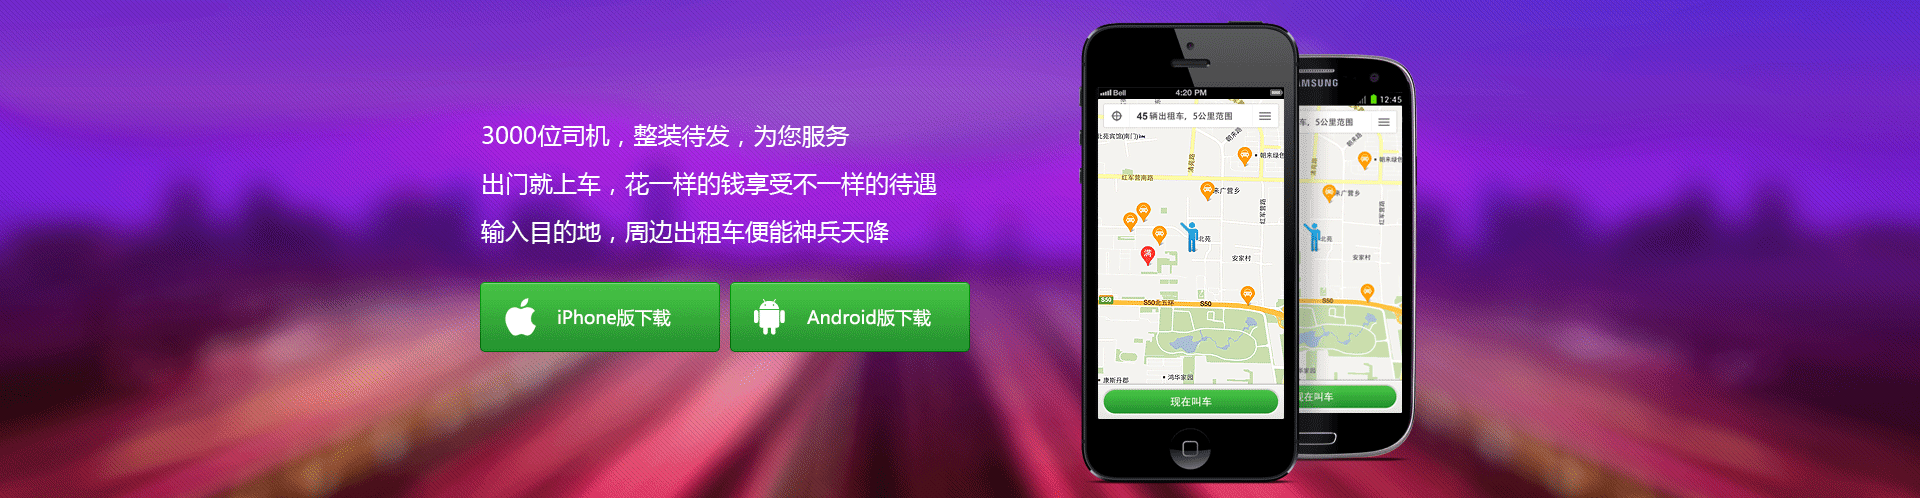
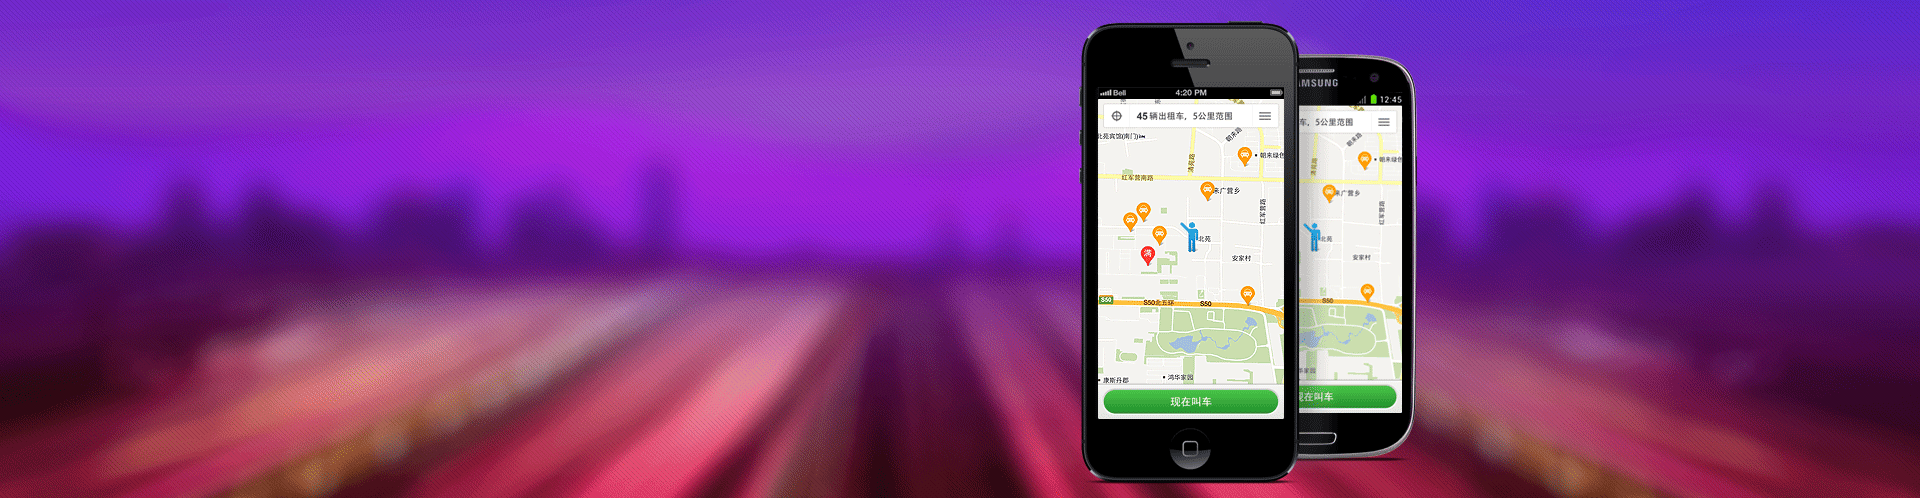
update

diff --git a/index.html b/index.html
@@ -13,7 +13,14 @@
 </div>
 
 <div id="banner" class="wrapper">
-  <div class="wrap">
+  <div class="wrap" style="padding-top:30px;">
+    <div style="font-size:24px;color:white;font-weight:bold;">
+    <p>3000位出租车司机,整装待发，为您提供</p>
+    <p>出门就上车，花一样的钱享受不一样的待遇</p>
+    <p>输入目的地，周边出租车便能神兵天降</p>
+    </div>
+    <a href="/target/FindCab.ipa"><img style="float:left;border:0;margin-top:100px;" src="images/iphone_download_btn.png" alt="download iphone" /></a>
+    <a href="/target/"><img style="float:left;border:0;margin-left:20px;margin-top:100px;" src="images/android_download_btn.png" alt="download android" /></a>
   </div>
 </div>
 
